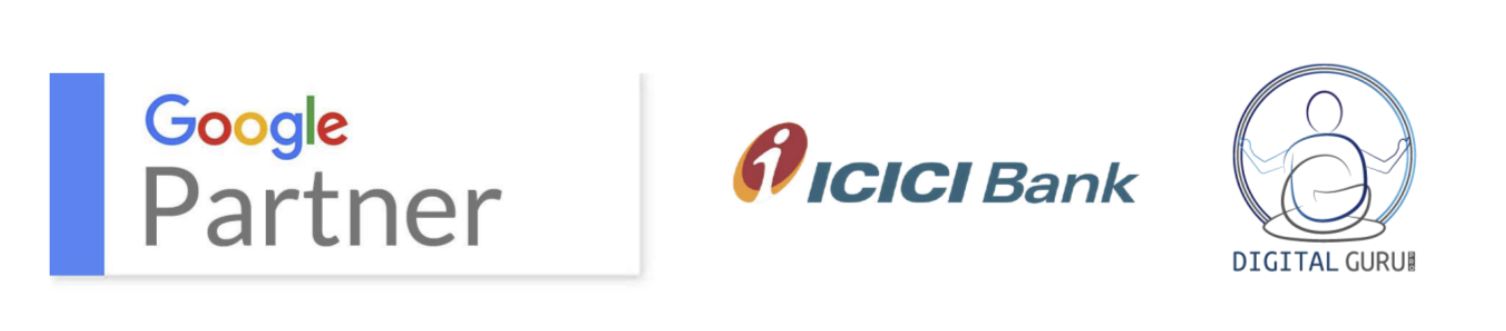
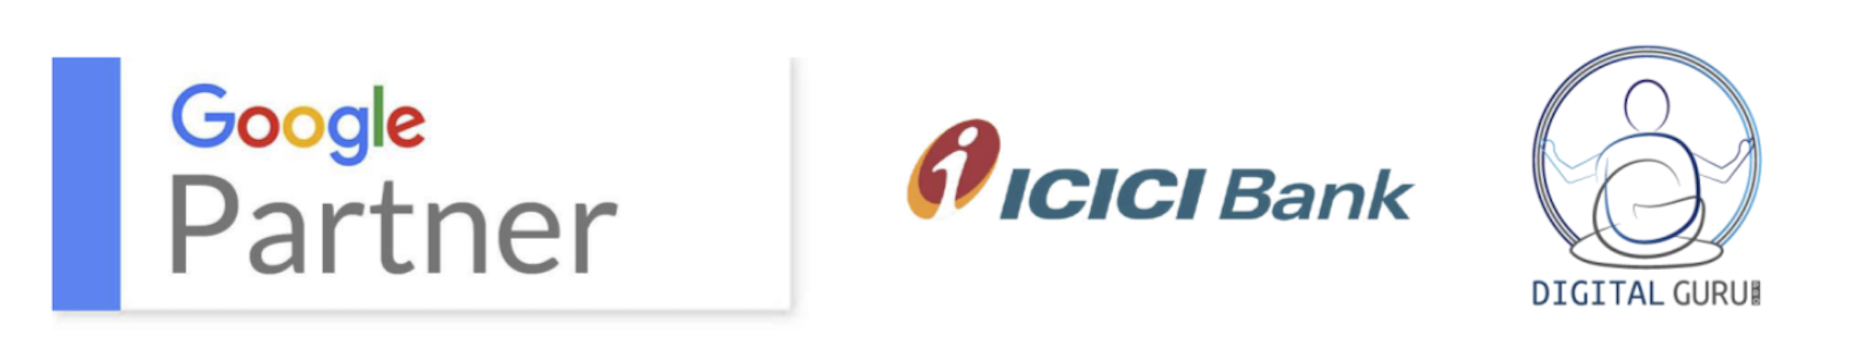
updated css

Changed region(s): [[0.0, 0.1511, 0.4369, 0.9366], [0.8114, 0.1208, 0.9675, 0.9063], [0.4681, 0.3323, 0.7802, 0.6647]]

diff --git a/styles.css b/styles.css
@@ -150,6 +150,7 @@ body {
 
 .container1 {
     display: flex;
+    
     margin-left: 5%;
     width: 90%; /* 5% margin on both sides */
     margin-top: 20px;
@@ -157,16 +158,18 @@ body {
 
 .box1 {
     border: 1px solid #ffffff;
-    padding: 20px; /* Add padding to the boxes */
+    padding: 20px;
     width: 50%; /* Adjust width to fit the screen without margin between boxes */
     text-align: center;
     box-shadow: 2px 2px 12px rgba(0, 0, 0, 0.1);
     background-color: #fff;
+    margin: -0.4%; /* Remove any default margin */
+
 }
 
 .box1 img {
     max-width: 100%;
-    height: auto;
+    height: 98%;
 }
 
 .main-heading {
